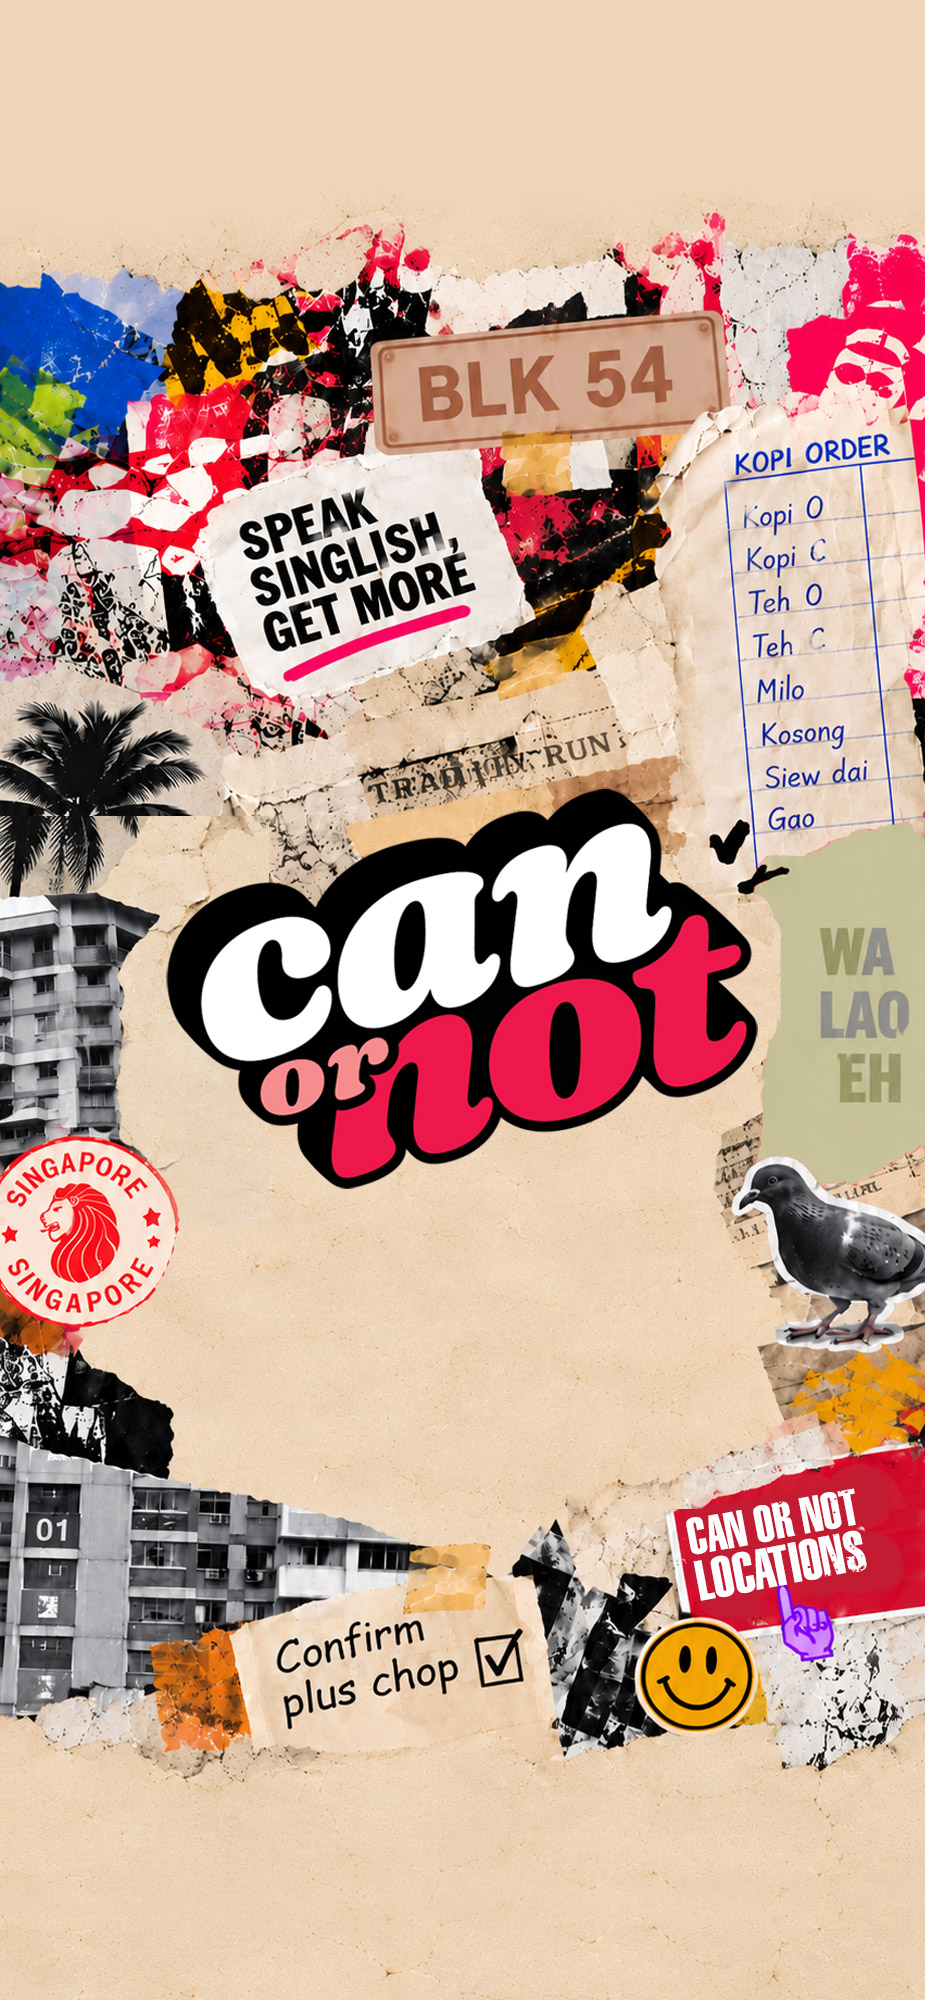
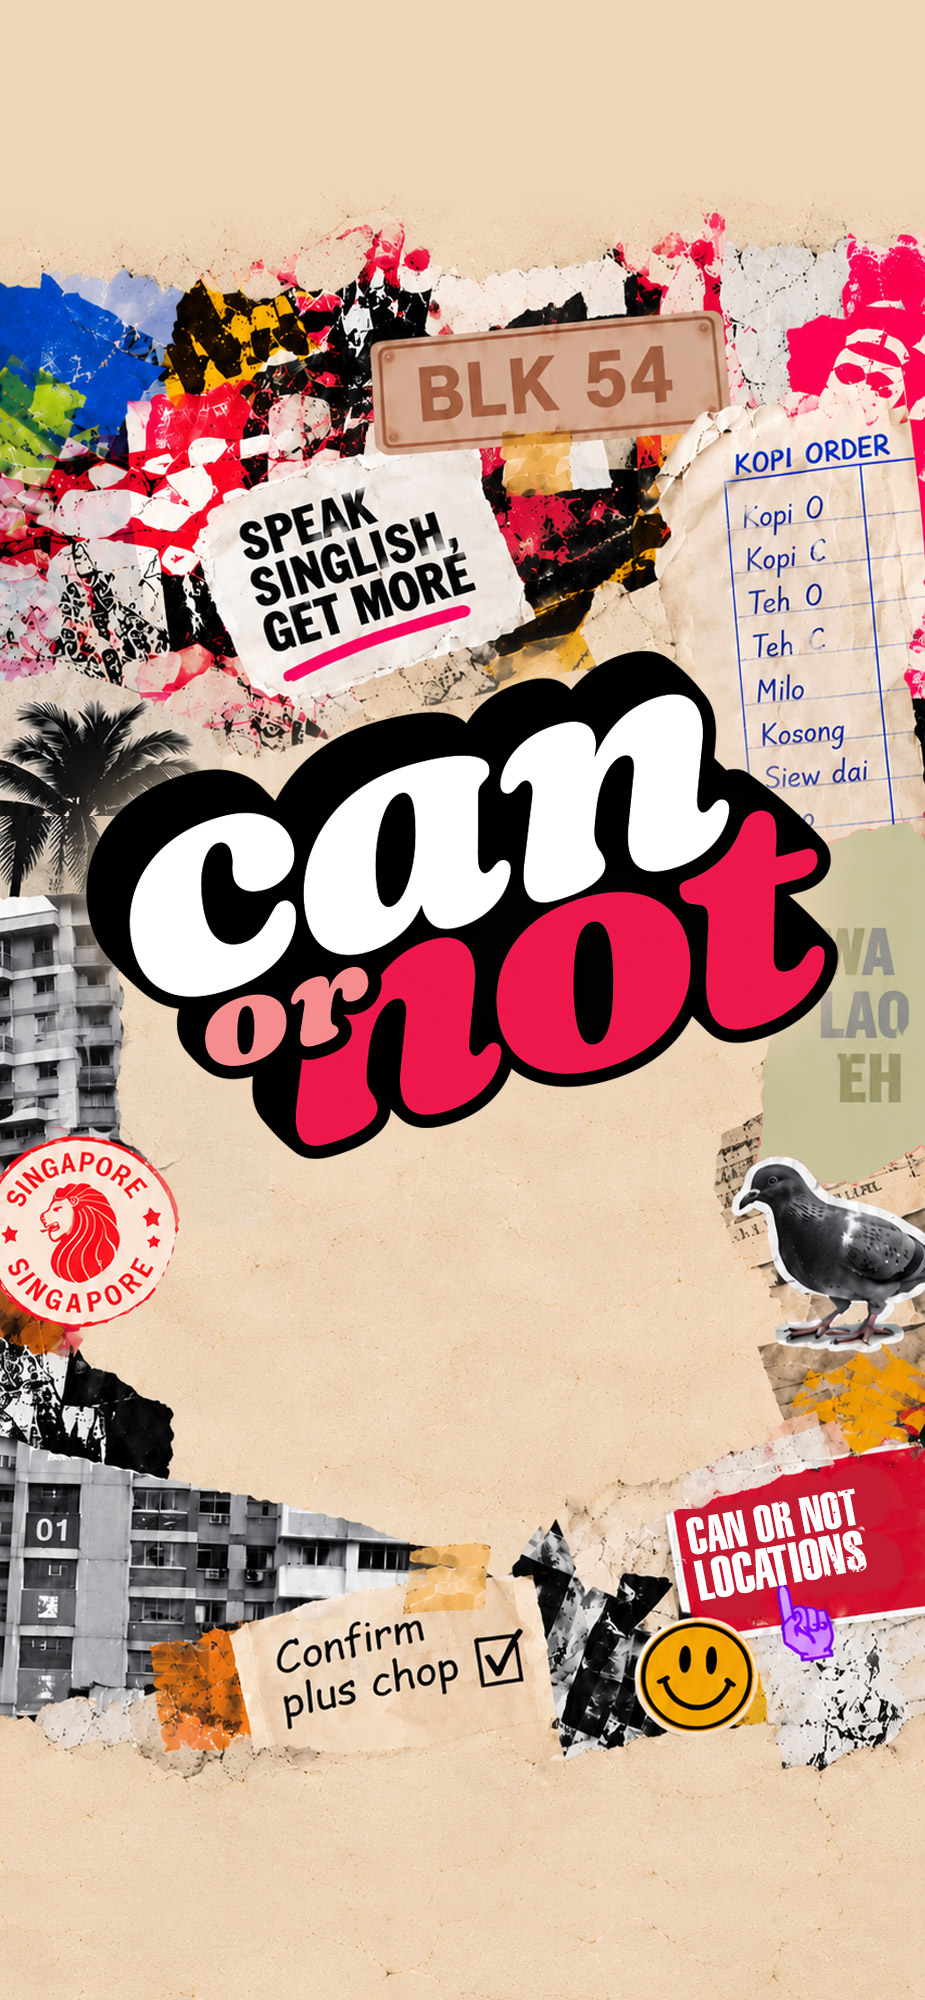
Add files via upload

Changed region(s): [[0.0605, 0.31, 0.9081, 0.62]]

diff --git a/index.html b/index.html
@@ -441,7 +441,7 @@ opacity:0.95;
 .home-mid{
 position:absolute;
 left:50%;
-top:73vh;
+top:70vh;
 transform:translate(-50%,-50%);
 width:min(760px,92vw);
 display:flex;
@@ -457,9 +457,11 @@ align-items:center;
 }
 
 .phone-label{
+  position:relative;
+  top:5px;
   margin-bottom:2px;
   font-size:12px;
-  font-weight:600;
+  font-weight:400;
   color:#111;
   text-align:center;
 }
